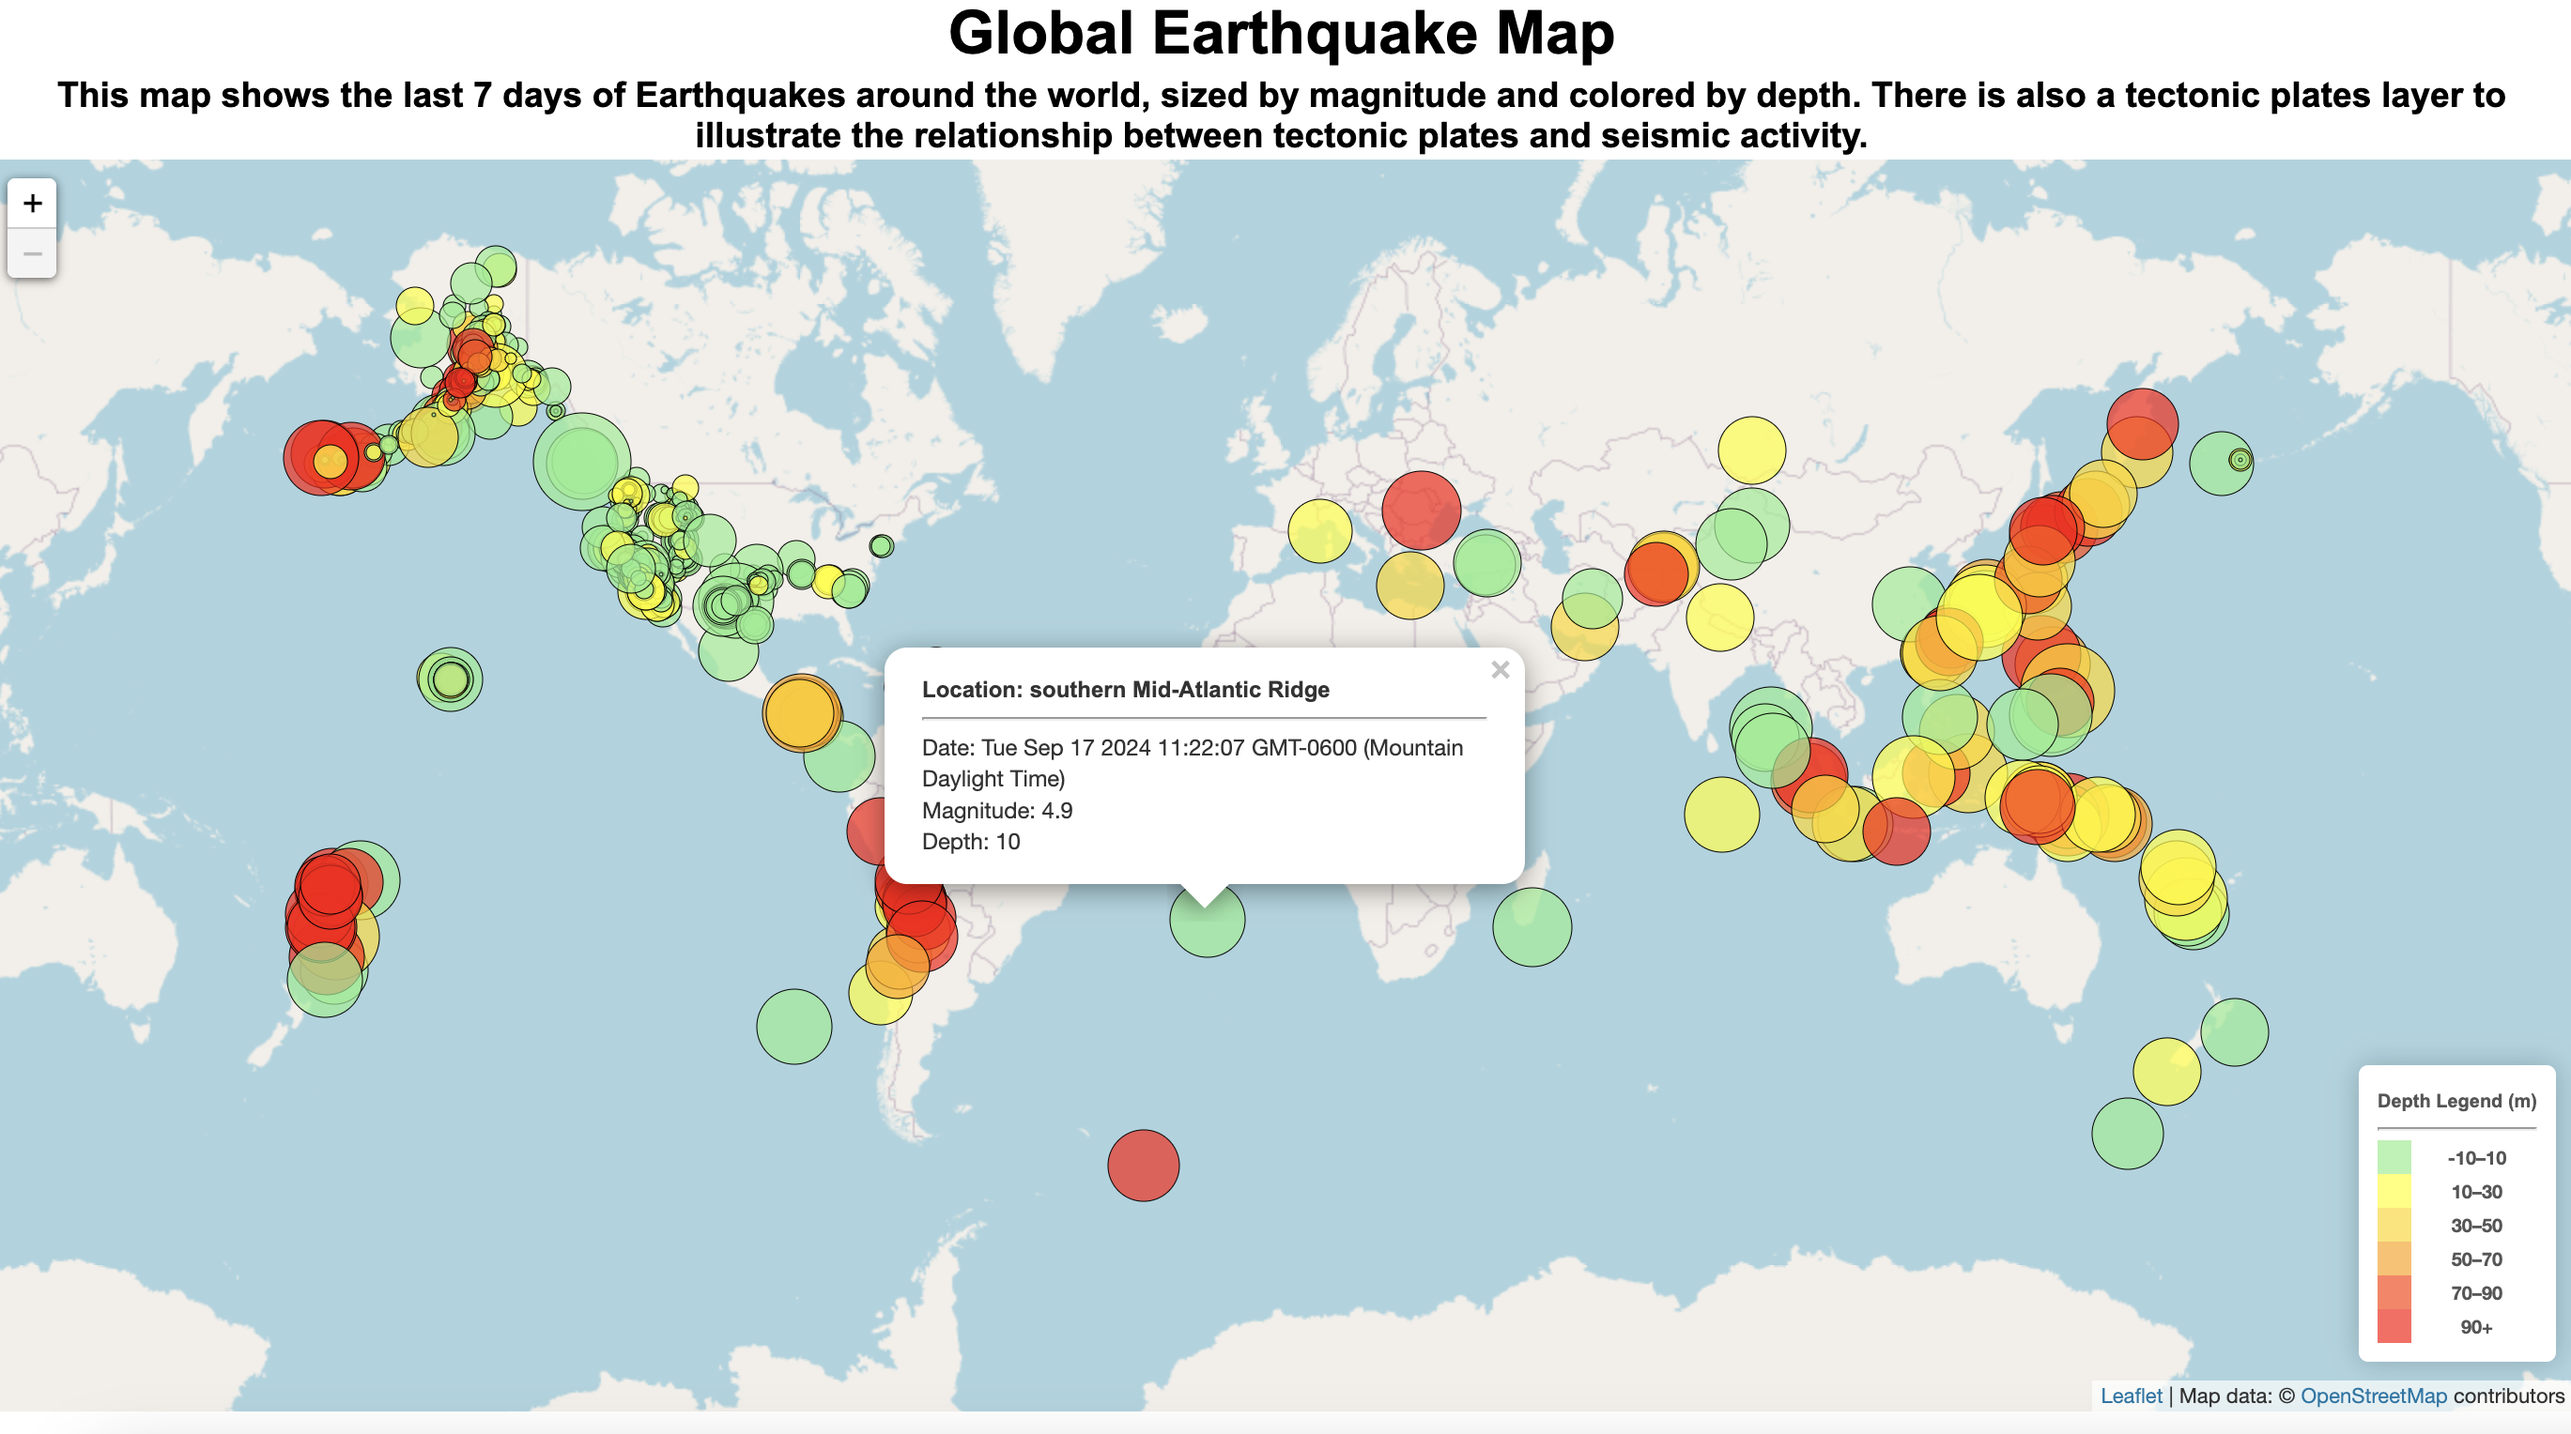
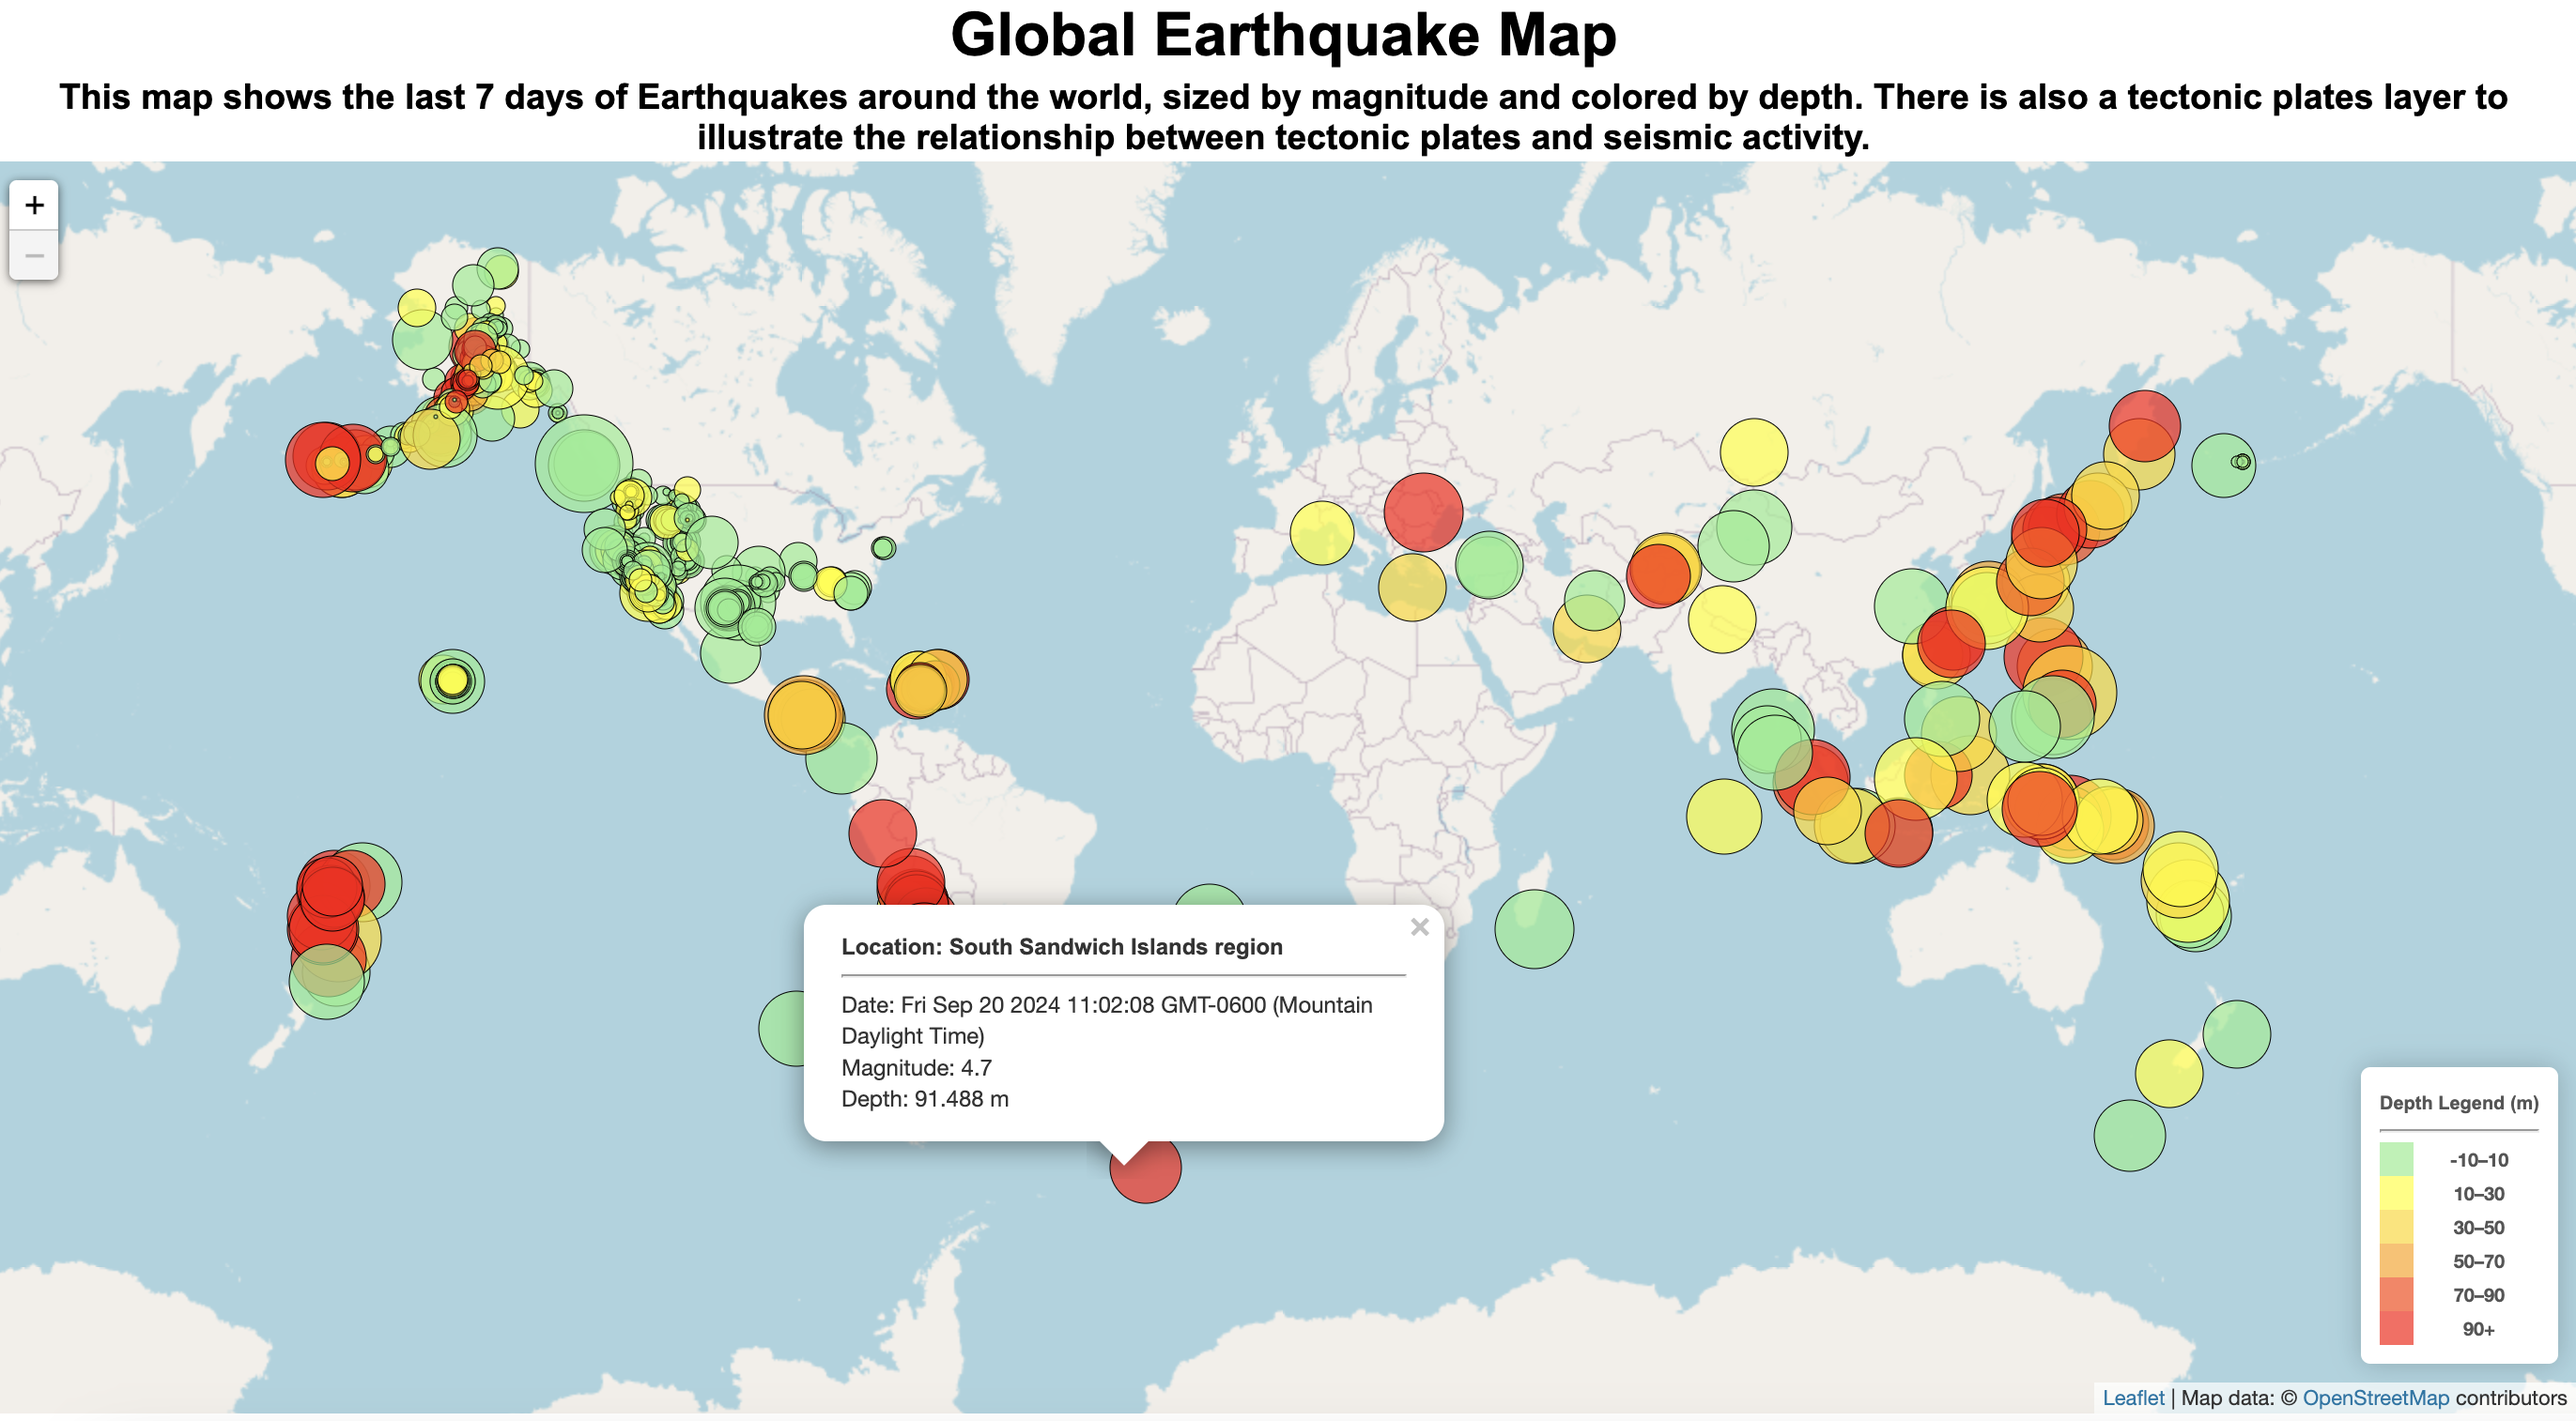
added "m" to depth

diff --git a/Leaflet-Part-2/static/js/logic.js b/Leaflet-Part-2/static/js/logic.js
@@ -102,7 +102,7 @@ d3.json(earthquakesURL, function(earthquakeData) {
       layer.bindPopup("<h4>Location: " + feature.properties.place 
         + "</h4><hr>Date: " + new Date(feature.properties.time) 
         + "<br>Magnitude: " + feature.properties.mag 
-        + "<br>Depth: " + feature.geometry.coordinates[2] );
+        + "<br>Depth: " + feature.geometry.coordinates[2] + " m" );
     }
   }).addTo(earthquakes);
   // Send earthquakes layer to the map
@@ -127,7 +127,7 @@ d3.json(earthquakesURL, function(earthquakeData) {
       
       div.innerHTML = "<h4>Depth Legend (m)</h4><hr/>"
   
-      for (var i=0; i < depths.length; i++) {
+      for (let i=0; i < depths.length; i++) {
         div.innerHTML += 
         '<div class="box" style="background-color:'+ markerColor(depths[i] + 1) +'"></div> ' +
             depths[i] + (depths[i + 1] ? '&ndash;' + depths[i + 1] + '<br>' : '+');  // condition ? expressionIfTrue : expressionIfFalse

diff --git a/static/js/logic.js b/static/js/logic.js
@@ -102,7 +102,7 @@ d3.json(earthquakesURL, function(earthquakeData) {
       layer.bindPopup("<h4>Location: " + feature.properties.place 
         + "</h4><hr>Date: " + new Date(feature.properties.time) 
         + "<br>Magnitude: " + feature.properties.mag 
-        + "<br>Depth: " + feature.geometry.coordinates[2] );
+        + "<br>Depth: " + feature.geometry.coordinates[2] + " m" );
     }
   }).addTo(earthquakes);
   // Send earthquakes layer to the map
@@ -127,7 +127,7 @@ d3.json(earthquakesURL, function(earthquakeData) {
       
       div.innerHTML = "<h4>Depth Legend (m)</h4><hr/>"
   
-      for (var i=0; i < depths.length; i++) {
+      for (let i=0; i < depths.length; i++) {
         div.innerHTML += 
         '<div class="box" style="background-color:'+ markerColor(depths[i] + 1) +'"></div> ' +
             depths[i] + (depths[i + 1] ? '&ndash;' + depths[i + 1] + '<br>' : '+');  // condition ? expressionIfTrue : expressionIfFalse

diff --git a/Leaflet-Part-1/static/js/logic.js b/Leaflet-Part-1/static/js/logic.js
@@ -76,7 +76,7 @@ d3.json(earthquakesURL, function(earthquakeData) {
       layer.bindPopup("<h4>Location: " + feature.properties.place 
         + "</h4><hr>Date: " + new Date(feature.properties.time) 
         + "<br>Magnitude: " + feature.properties.mag 
-        + "<br>Depth: " + feature.geometry.coordinates[2] );
+        + "<br>Depth: " + feature.geometry.coordinates[2] + " m");
     }
   }).addTo(earthquakes);
   // Send earthquakes layer to the map
@@ -92,7 +92,7 @@ d3.json(earthquakesURL, function(earthquakeData) {
       
       div.innerHTML = "<h4>Depth Legend (m)</h4><hr/>"
   
-      for (var i=0; i < depths.length; i++) {
+      for (let i=0; i < depths.length; i++) {
         div.innerHTML += 
         '<div class="box" style="background-color:'+ markerColor(depths[i] + 1) +'"></div> ' +
             depths[i] + (depths[i + 1] ? '&ndash;' + depths[i + 1] + '<br>' : '+');  // condition ? expressionIfTrue : expressionIfFalse

diff --git a/Leaflet-Part-1/index.html b/Leaflet-Part-1/index.html
@@ -24,7 +24,7 @@
 
   <div> 
     <h1>Global Earthquake Map</h1>
-    <h3>This map shows the last 7 days of Earthquakes around the world, sized by magnitude and colored by depth. There is also a tectonic plates layer to illustrate the relationship between tectonic plates and seismic activity. </h3>
+    <h3>This map shows the last 7 days of earthquakes around the world, sized by magnitude and colored by depth. There is also a tectonic plates layer to illustrate the relationship between tectonic plates and seismic activity. </h3>
   </div>
   
   <!-- The div that holds our map -->

diff --git a/Leaflet-Part-2/index.html b/Leaflet-Part-2/index.html
@@ -24,7 +24,7 @@
 
   <div> 
     <h1>Global Earthquake Map</h1>
-    <h3>This map shows the last 7 days of Earthquakes around the world, sized by magnitude and colored by depth. There is also a tectonic plates layer to illustrate the relationship between tectonic plates and seismic activity. </h3>
+    <h3>This map shows the last 7 days of earthquakes around the world, sized by magnitude and colored by depth. There is also a tectonic plates layer to illustrate the relationship between tectonic plates and seismic activity. </h3>
   </div>
   
   <!-- The div that holds our map -->

diff --git a/index.html b/index.html
@@ -24,7 +24,7 @@
 
   <div> 
     <h1>Global Earthquake Map</h1>
-    <h3>This map shows the last 7 days of Earthquakes around the world, sized by magnitude and colored by depth. There is also a tectonic plates layer to illustrate the relationship between tectonic plates and seismic activity. </h3>
+    <h3>This map shows the last 7 days of earthquakes around the world, sized by magnitude and colored by depth. There is also a tectonic plates layer to illustrate the relationship between tectonic plates and seismic activity. </h3>
   </div>
   
   <!-- The div that holds our map -->
